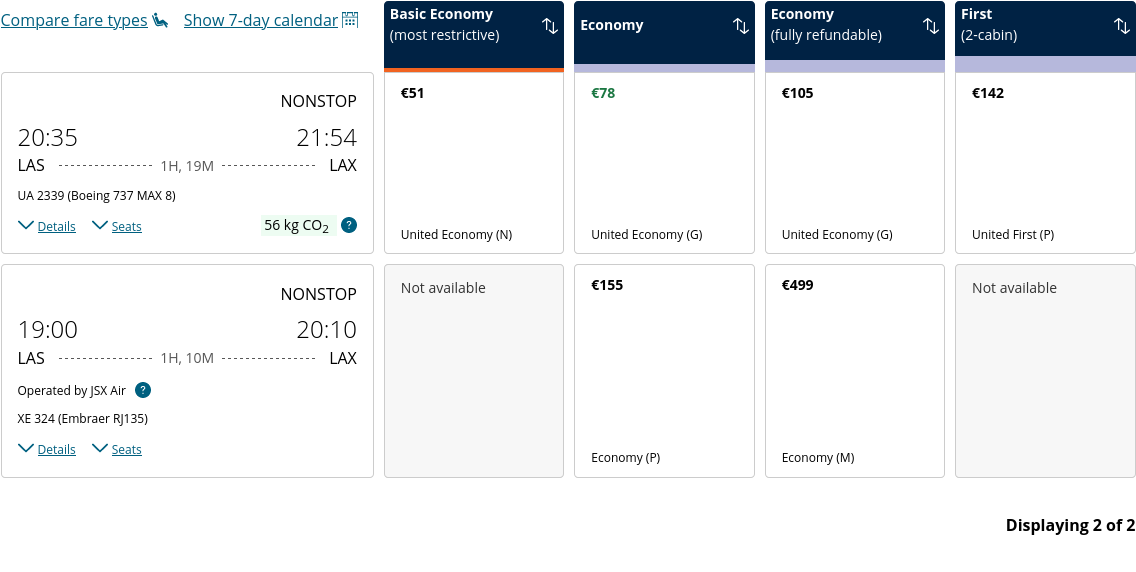
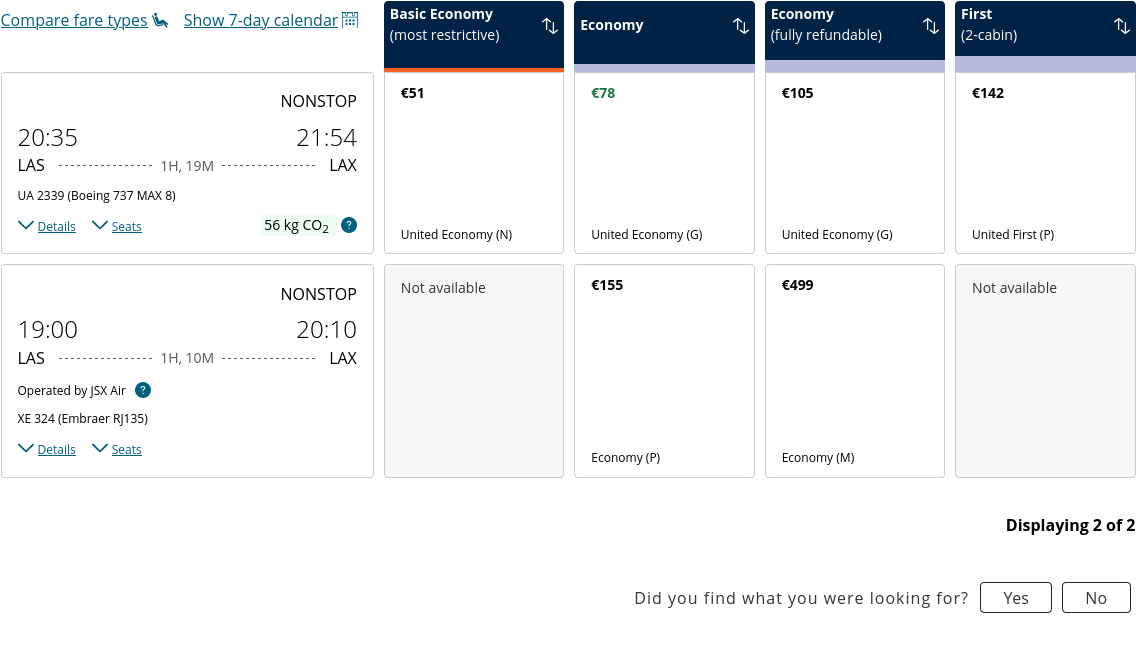
Latest scraping states: Tue Aug  1 10:52:29 UTC 2023

diff --git a/scrapes/states/united-01-05.md b/scrapes/states/united-01-05.md
@@ -48,10 +48,6 @@ UA 1363 (Boeing 737-800)Flight Number UA 1363. Aircraft Boeing 737-800
 
 DetailsSeats
 
-64 kg CO<sub>2</sub>Carbon emissions estimate: 64 kilograms. This is a lower emissions flight.
-
-Learn more about carbon emissions
-
 Economy
 
 €78

diff --git a/scrapes/states/united-01-04.md b/scrapes/states/united-01-04.md
@@ -124,4 +124,8 @@ Select fare for Economy
 
 Displaying 2 of 2
 
+Did you find what you were looking for?
+
+YesNo
+
 ![](united-01-04.png)

diff --git a/scrapes/states/southwest-12-30.md b/scrapes/states/southwest-12-30.md
@@ -34,5 +34,7 @@
     
     163 Dollars$163
     
+    4 left
+    
 
 ![](southwest-12-30.png)
